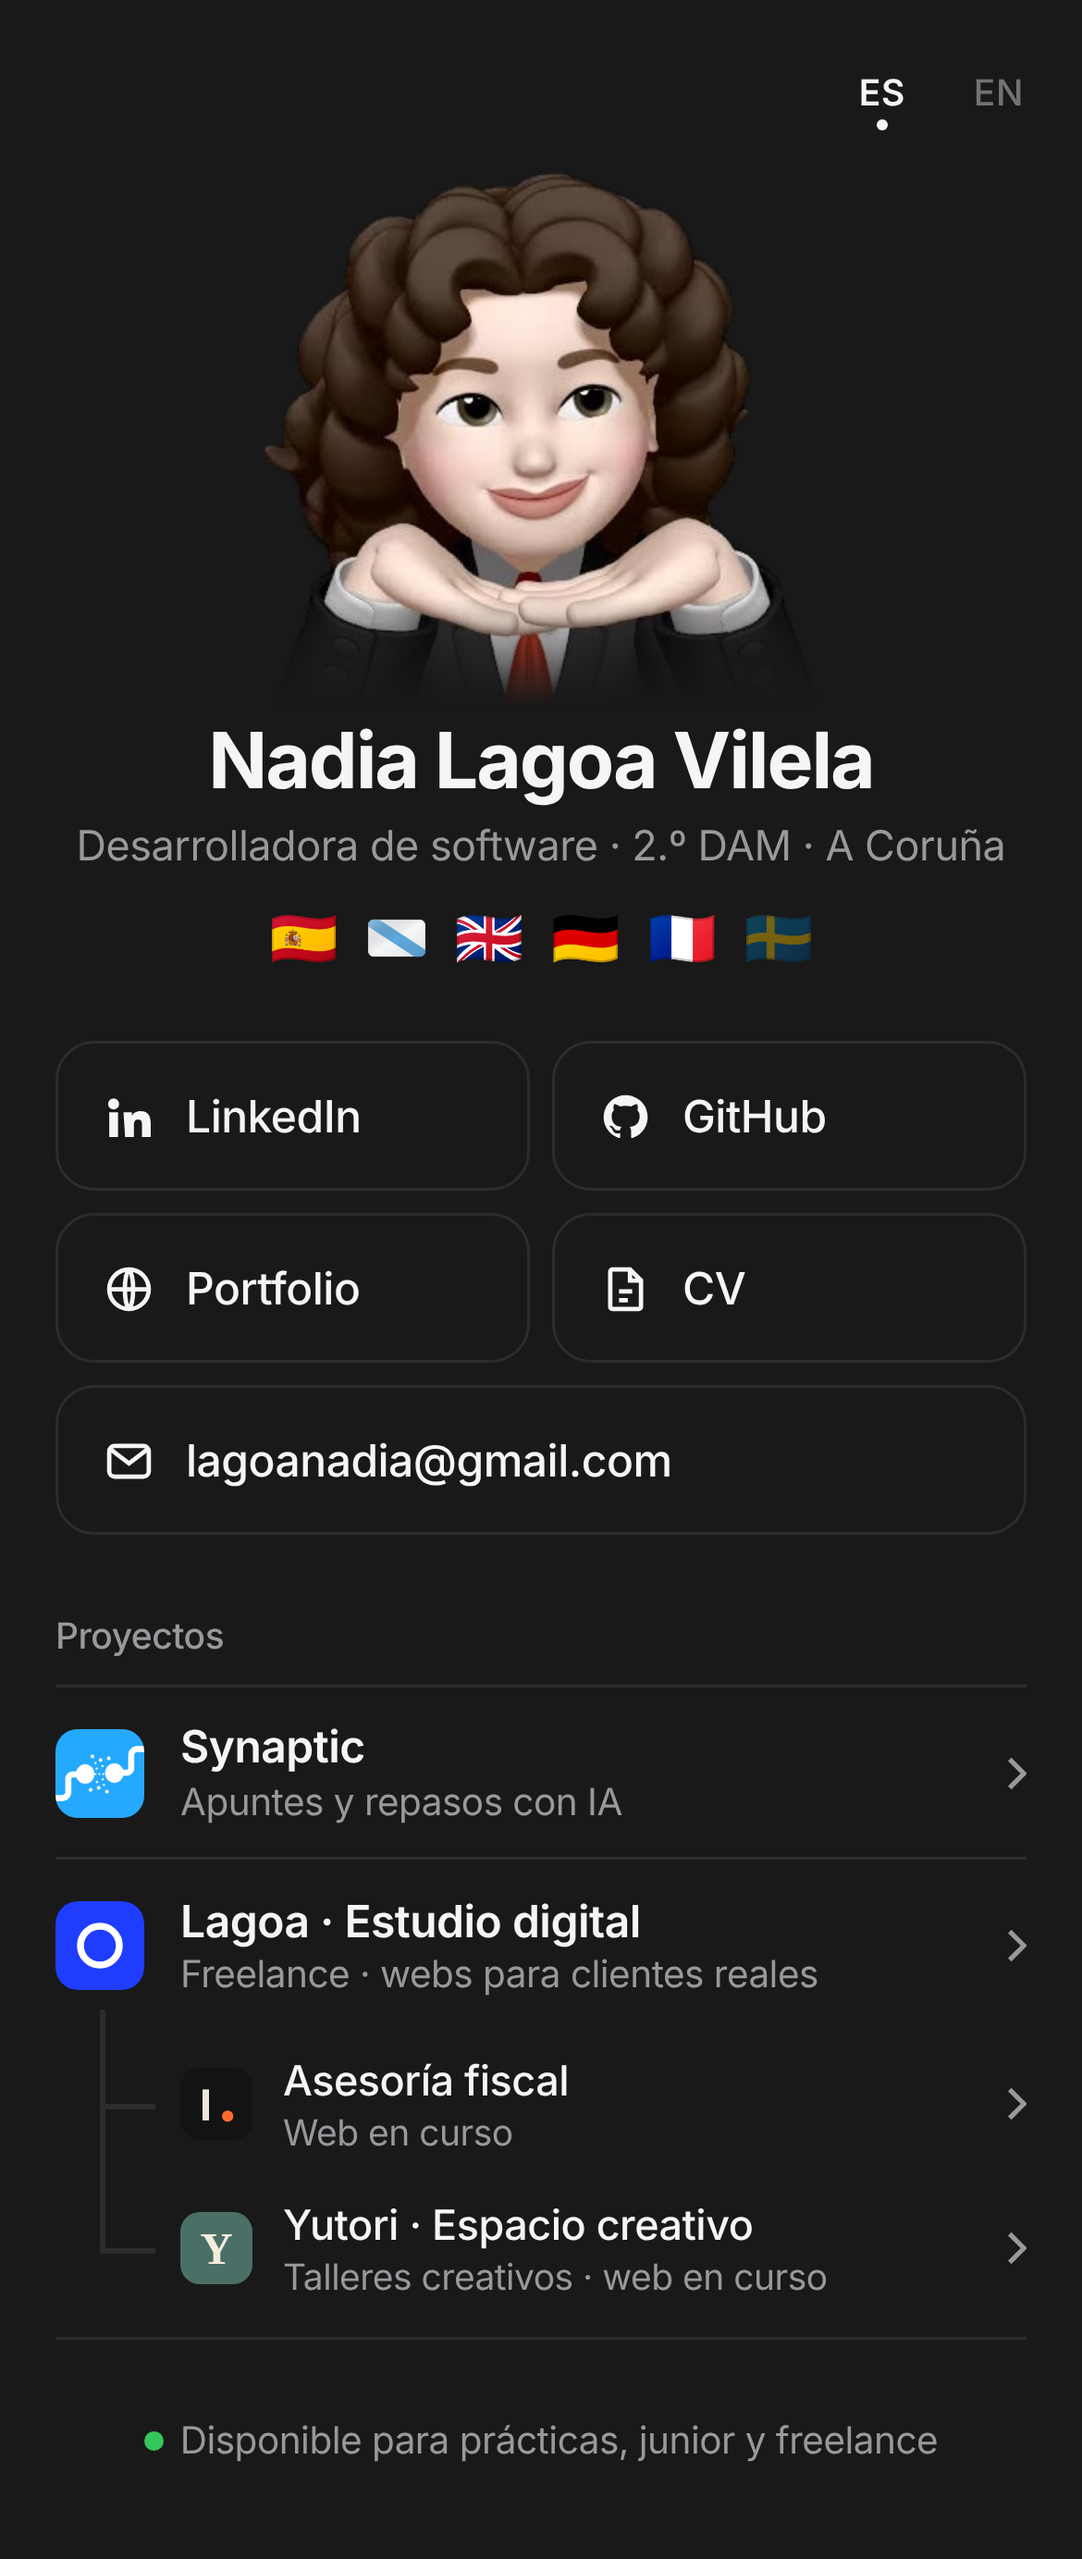
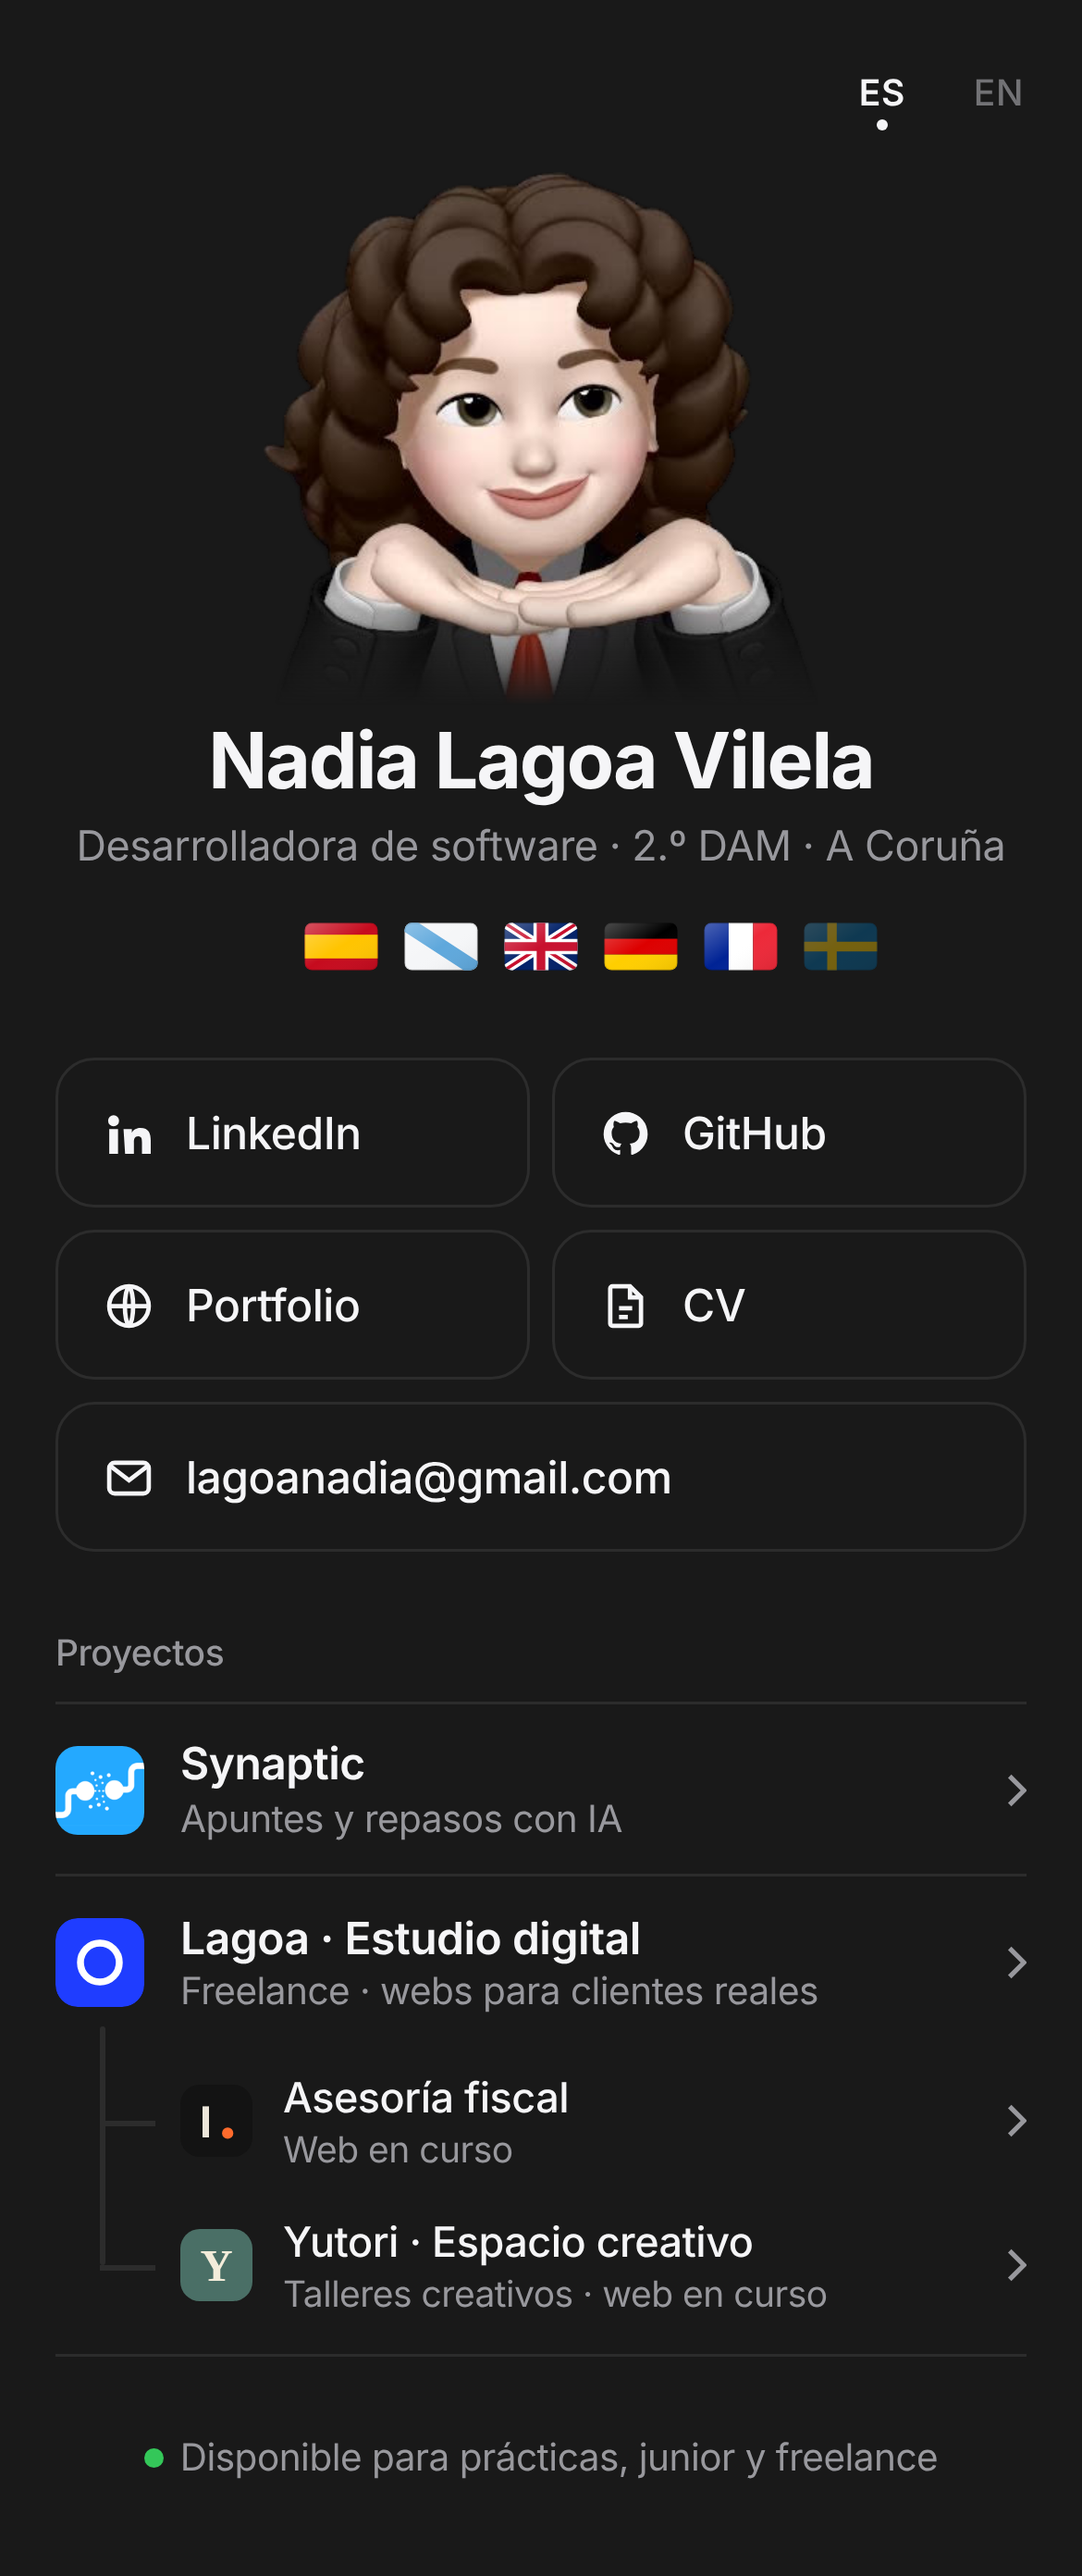
Banderas SVG estilo iOS visibles en cualquier dispositivo
Claude-Session: https://claude.ai/code/session_012gZcx71BmCNMhoCCkeSb98

diff --git a/index.html b/index.html
@@ -41,9 +41,9 @@ header{text-align:center}
 .memoji img{display:block;width:100%;height:auto;-webkit-mask:linear-gradient(#000 80%,transparent);mask:linear-gradient(#000 80%,transparent)}
 h1{font:700 28px/1.15 -apple-system,BlinkMacSystemFont,"SF Pro Display","Segoe UI",Roboto,sans-serif;letter-spacing:-.025em;margin-top:4px}
 .role{color:var(--muted);margin-top:4px;font-size:15px}
-.flags{display:flex;gap:10px;justify-content:center;margin-top:12px;list-style:none;font-size:20px;line-height:1}
+.flags{display:flex;gap:8px;justify-content:center;margin-top:12px;list-style:none;line-height:0}
 .flags li{display:flex;align-items:center}
-.flags svg{width:1.1em;height:1.1em}
+.flags svg{width:28px;height:28px}
 .flags .learn{opacity:.4}
 
 .links{margin-top:26px;display:grid;gap:8px}
@@ -91,12 +91,13 @@ footer{margin-top:28px;text-align:center;color:var(--muted);font-size:13.5px}
     <h1>Nadia Lagoa Vilela</h1>
     <p class="role" data-i18n="role">Desarrolladora de software · 2.º DAM · A Coruña</p>
     <ul class="flags" aria-label="Idiomas: español, gallego, inglés, alemán, francés; aprendiendo sueco" data-i18n-aria="langs">
-      <li title="Español" aria-hidden="true">🇪🇸</li>
-      <li title="Galego" aria-hidden="true"><svg viewBox="0 0 36 36"><defs><clipPath id="gl"><rect x="1" y="7" width="34" height="22" rx="3.5"/></clipPath><linearGradient id="glw" x1="0" x2="1" y1="0" y2="1"><stop offset="0" stop-color="#fff" stop-opacity=".35"/><stop offset=".5" stop-color="#000" stop-opacity="0"/><stop offset="1" stop-color="#000" stop-opacity=".08"/></linearGradient></defs><g clip-path="url(#gl)"><rect x="1" y="7" width="34" height="22" fill="#f5f6f8"/><path d="M-2 5L38 31" stroke="#5fa8dc" stroke-width="7"/><rect x="1" y="7" width="34" height="22" fill="url(#glw)"/></g><rect x="1.25" y="7.25" width="33.5" height="21.5" rx="3.3" fill="none" stroke="#000" stroke-opacity=".12" stroke-width=".5"/></svg></li>
-      <li title="English" aria-hidden="true">🇬🇧</li>
-      <li title="Deutsch" aria-hidden="true">🇩🇪</li>
-      <li title="Français" aria-hidden="true">🇫🇷</li>
-      <li class="learn" title="Svenska" aria-hidden="true">🇸🇪</li>
+      <li hidden><svg width="0" height="0"><defs><linearGradient id="gloss" x1="0" x2="1" y1="0" y2="1"><stop offset="0" stop-color="#fff" stop-opacity=".3"/><stop offset=".5" stop-color="#fff" stop-opacity="0"/><stop offset="1" stop-color="#000" stop-opacity=".08"/></linearGradient></defs></svg></li>
+      <li title="Español" aria-hidden="true"><svg viewBox="0 0 36 36"><defs><clipPath id="ces"><rect x="1" y="7" width="34" height="22" rx="3.5"/></clipPath></defs><g clip-path="url(#ces)"><rect x="1" y="7" width="34" height="22" fill="#c60b1e"/><rect x="1" y="12.5" width="34" height="11" fill="#ffc400"/><rect x="1" y="7" width="34" height="22" fill="url(#gloss)"/></g><rect x="1.25" y="7.25" width="33.5" height="21.5" rx="3.3" fill="none" stroke="#000" stroke-opacity=".12" stroke-width=".5"/></svg></li>
+      <li title="Galego" aria-hidden="true"><svg viewBox="0 0 36 36"><defs><clipPath id="cgl"><rect x="1" y="7" width="34" height="22" rx="3.5"/></clipPath></defs><g clip-path="url(#cgl)"><rect x="1" y="7" width="34" height="22" fill="#f5f6f8"/><path d="M-2 5L38 31" stroke="#5fa8dc" stroke-width="7"/><rect x="1" y="7" width="34" height="22" fill="url(#gloss)"/></g><rect x="1.25" y="7.25" width="33.5" height="21.5" rx="3.3" fill="none" stroke="#000" stroke-opacity=".12" stroke-width=".5"/></svg></li>
+      <li title="English" aria-hidden="true"><svg viewBox="0 0 36 36"><defs><clipPath id="cgb"><rect x="1" y="7" width="34" height="22" rx="3.5"/></clipPath></defs><g clip-path="url(#cgb)"><rect x="1" y="7" width="34" height="22" fill="#012169"/><path d="M1 7L35 29M35 7L1 29" stroke="#fff" stroke-width="4.4"/><path d="M1 7L35 29M35 7L1 29" stroke="#c8102e" stroke-width="1.5"/><path d="M18 7v22M1 18h34" stroke="#fff" stroke-width="7"/><path d="M18 7v22M1 18h34" stroke="#c8102e" stroke-width="4"/><rect x="1" y="7" width="34" height="22" fill="url(#gloss)"/></g><rect x="1.25" y="7.25" width="33.5" height="21.5" rx="3.3" fill="none" stroke="#000" stroke-opacity=".12" stroke-width=".5"/></svg></li>
+      <li title="Deutsch" aria-hidden="true"><svg viewBox="0 0 36 36"><defs><clipPath id="cde"><rect x="1" y="7" width="34" height="22" rx="3.5"/></clipPath></defs><g clip-path="url(#cde)"><rect x="1" y="7" width="34" height="7.4" fill="#000"/><rect x="1" y="14.4" width="34" height="7.3" fill="#dd0000"/><rect x="1" y="21.7" width="34" height="7.3" fill="#ffce00"/><rect x="1" y="7" width="34" height="22" fill="url(#gloss)"/></g><rect x="1.25" y="7.25" width="33.5" height="21.5" rx="3.3" fill="none" stroke="#000" stroke-opacity=".12" stroke-width=".5"/></svg></li>
+      <li title="Français" aria-hidden="true"><svg viewBox="0 0 36 36"><defs><clipPath id="cfr"><rect x="1" y="7" width="34" height="22" rx="3.5"/></clipPath></defs><g clip-path="url(#cfr)"><rect x="1" y="7" width="11.4" height="22" fill="#002395"/><rect x="12.4" y="7" width="11.3" height="22" fill="#fff"/><rect x="23.7" y="7" width="11.3" height="22" fill="#ed2939"/><rect x="1" y="7" width="34" height="22" fill="url(#gloss)"/></g><rect x="1.25" y="7.25" width="33.5" height="21.5" rx="3.3" fill="none" stroke="#000" stroke-opacity=".12" stroke-width=".5"/></svg></li>
+      <li class="learn" title="Svenska" aria-hidden="true"><svg viewBox="0 0 36 36"><defs><clipPath id="cse"><rect x="1" y="7" width="34" height="22" rx="3.5"/></clipPath></defs><g clip-path="url(#cse)"><rect x="1" y="7" width="34" height="22" fill="#006aa7"/><path d="M14 7v22M1 18h34" stroke="#fecc00" stroke-width="4.4"/><rect x="1" y="7" width="34" height="22" fill="url(#gloss)"/></g><rect x="1.25" y="7.25" width="33.5" height="21.5" rx="3.3" fill="none" stroke="#000" stroke-opacity=".12" stroke-width=".5"/></svg></li>
     </ul>
   </header>
 
